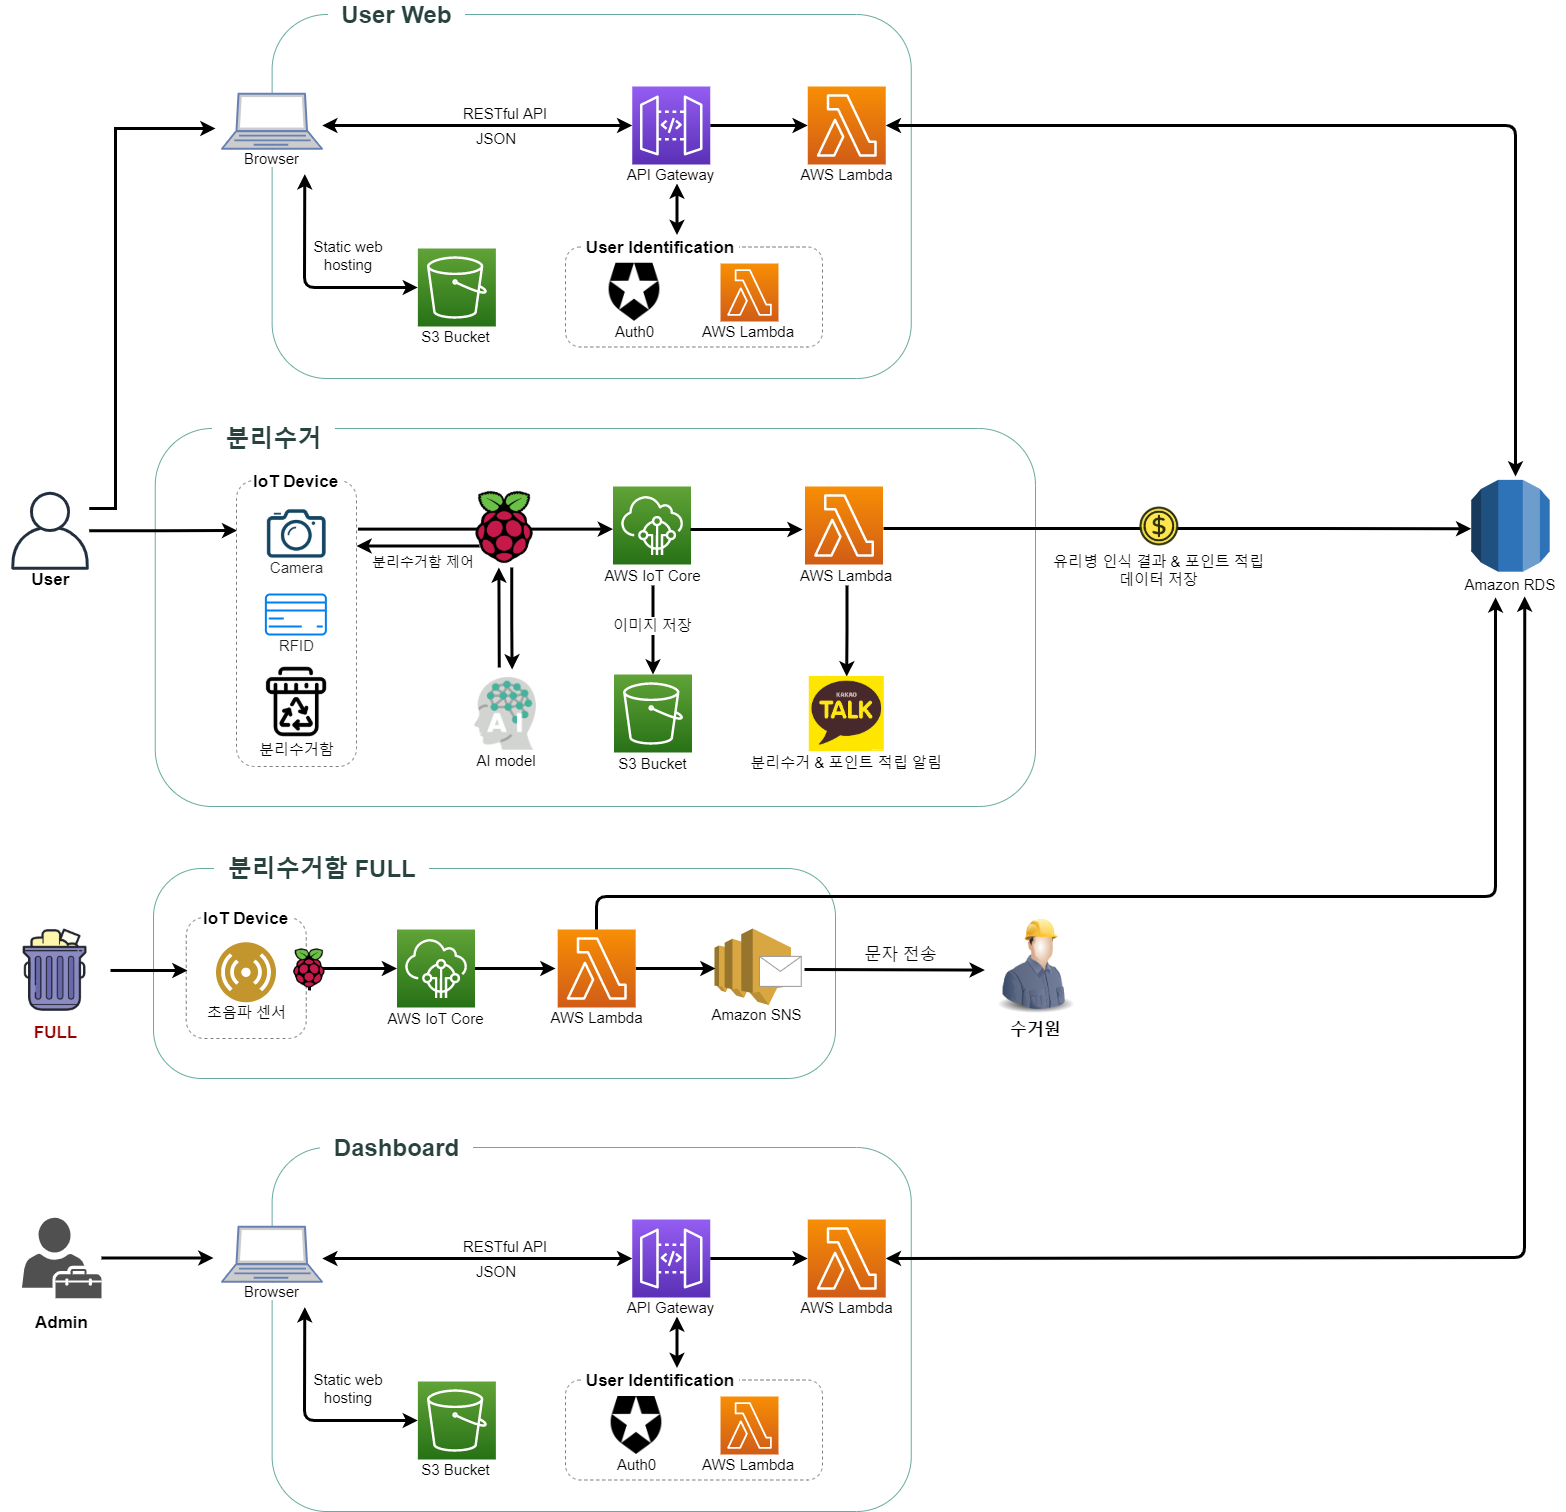
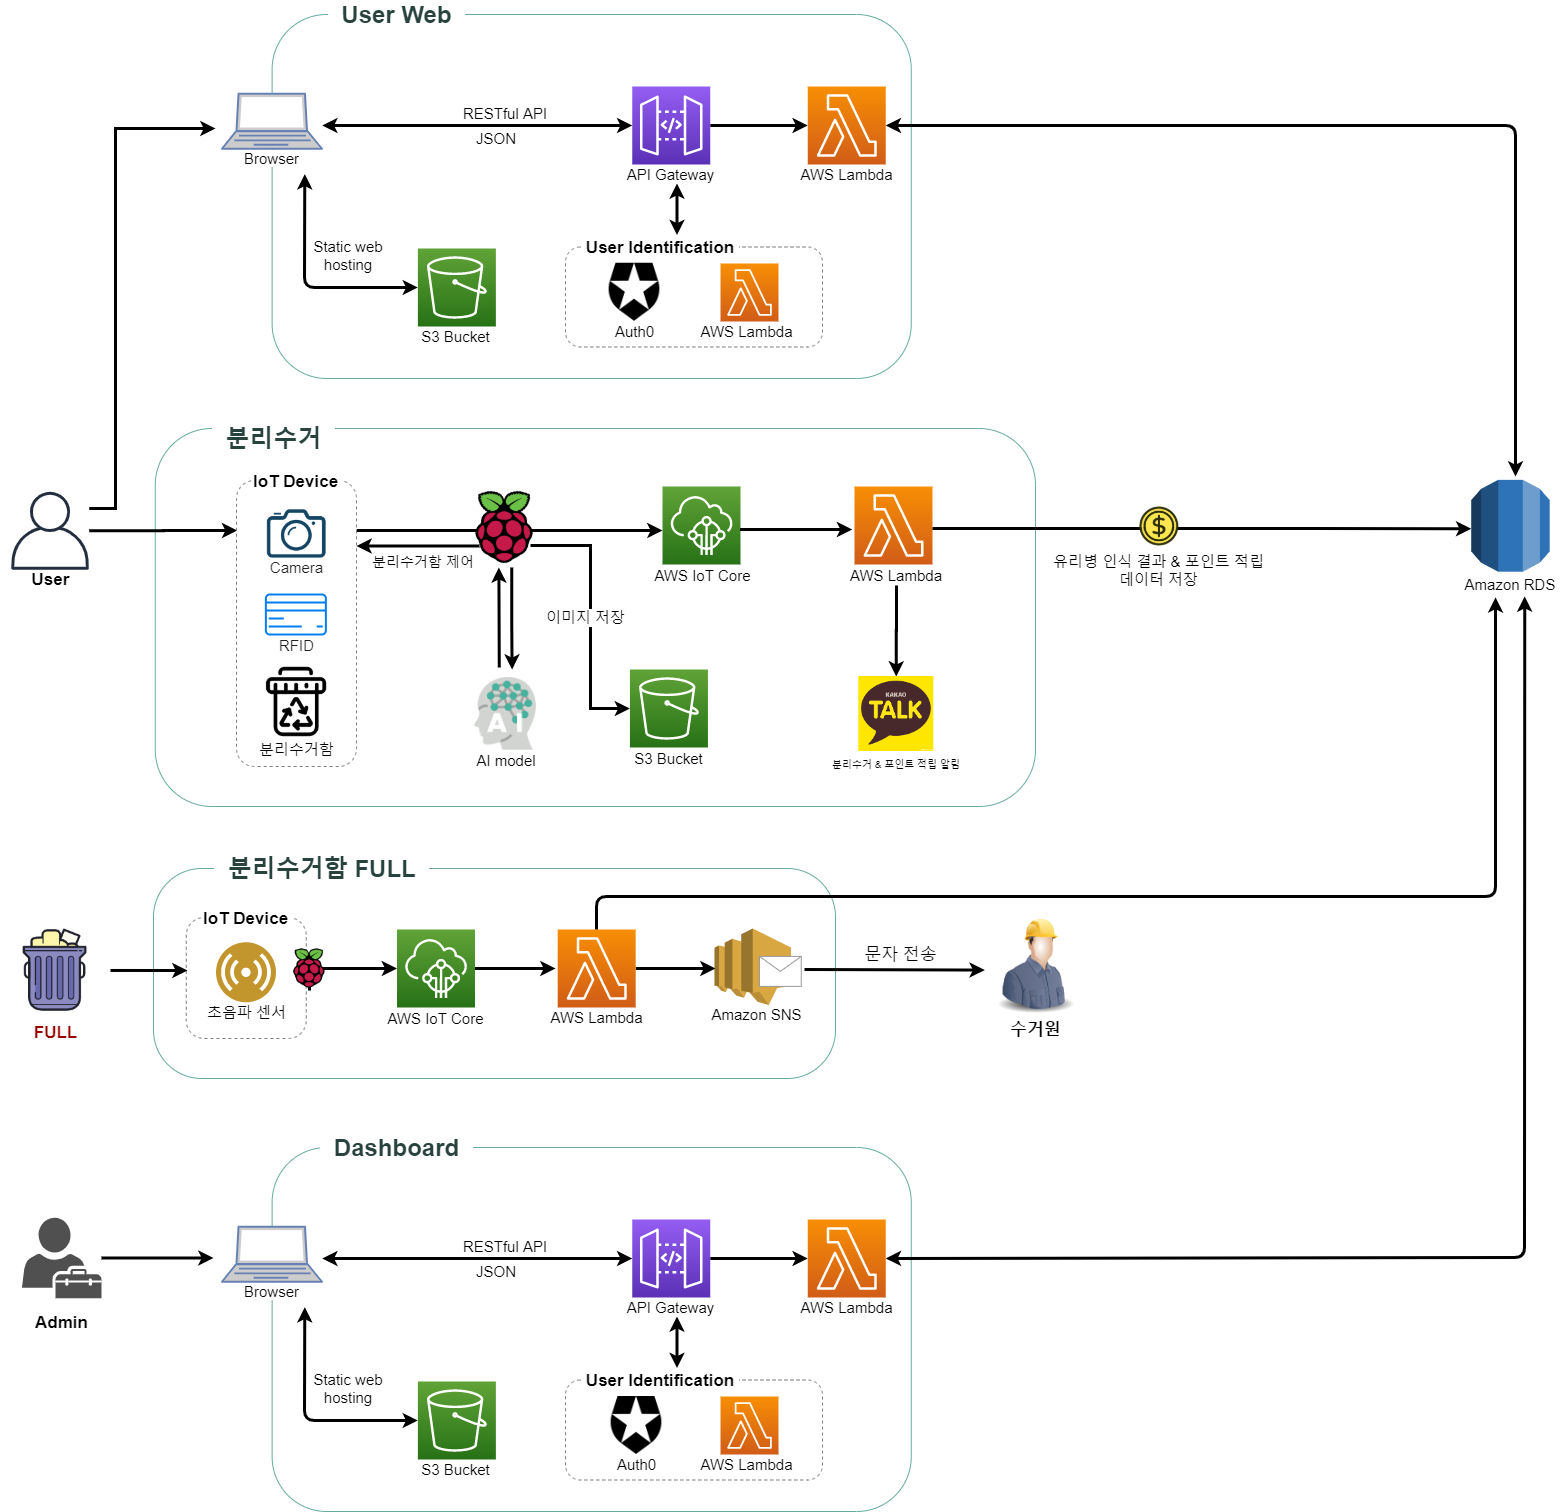
1201 meeting

diff --git a/meeting.md b/meeting.md
@@ -212,6 +212,10 @@
 - 라즈베리파이가 아두이노와 통신하여 아두이노가 하드웨어 제어하지 않고,
 
   라즈베리파이가 직접 하드웨어를 제어하도록 수정
+  
+- 라즈베리파이 카메라로부터 받아온 이미지를 AWS IoT Core를 통해 S3 버킷에 저장하지 않고,
+
+  라즈베리파이에서 S3 버킷으로 바로 전송하도록 수정
 
 
 
@@ -229,6 +233,9 @@
 
 
 
-- DynamoDB + Lambda + API gateway - [Put Item test](./DBPut_using_apigateway.md)
+- DynamoDB + Lambda + API Gateway - [Put Item test](./DBPut_using_apigateway.md)
+
+- API Gateway 웹 배포 테스트 - [API Gateway  S3 Proxy](./API게이트웨이 S3 프록시.md)
 
   
+
